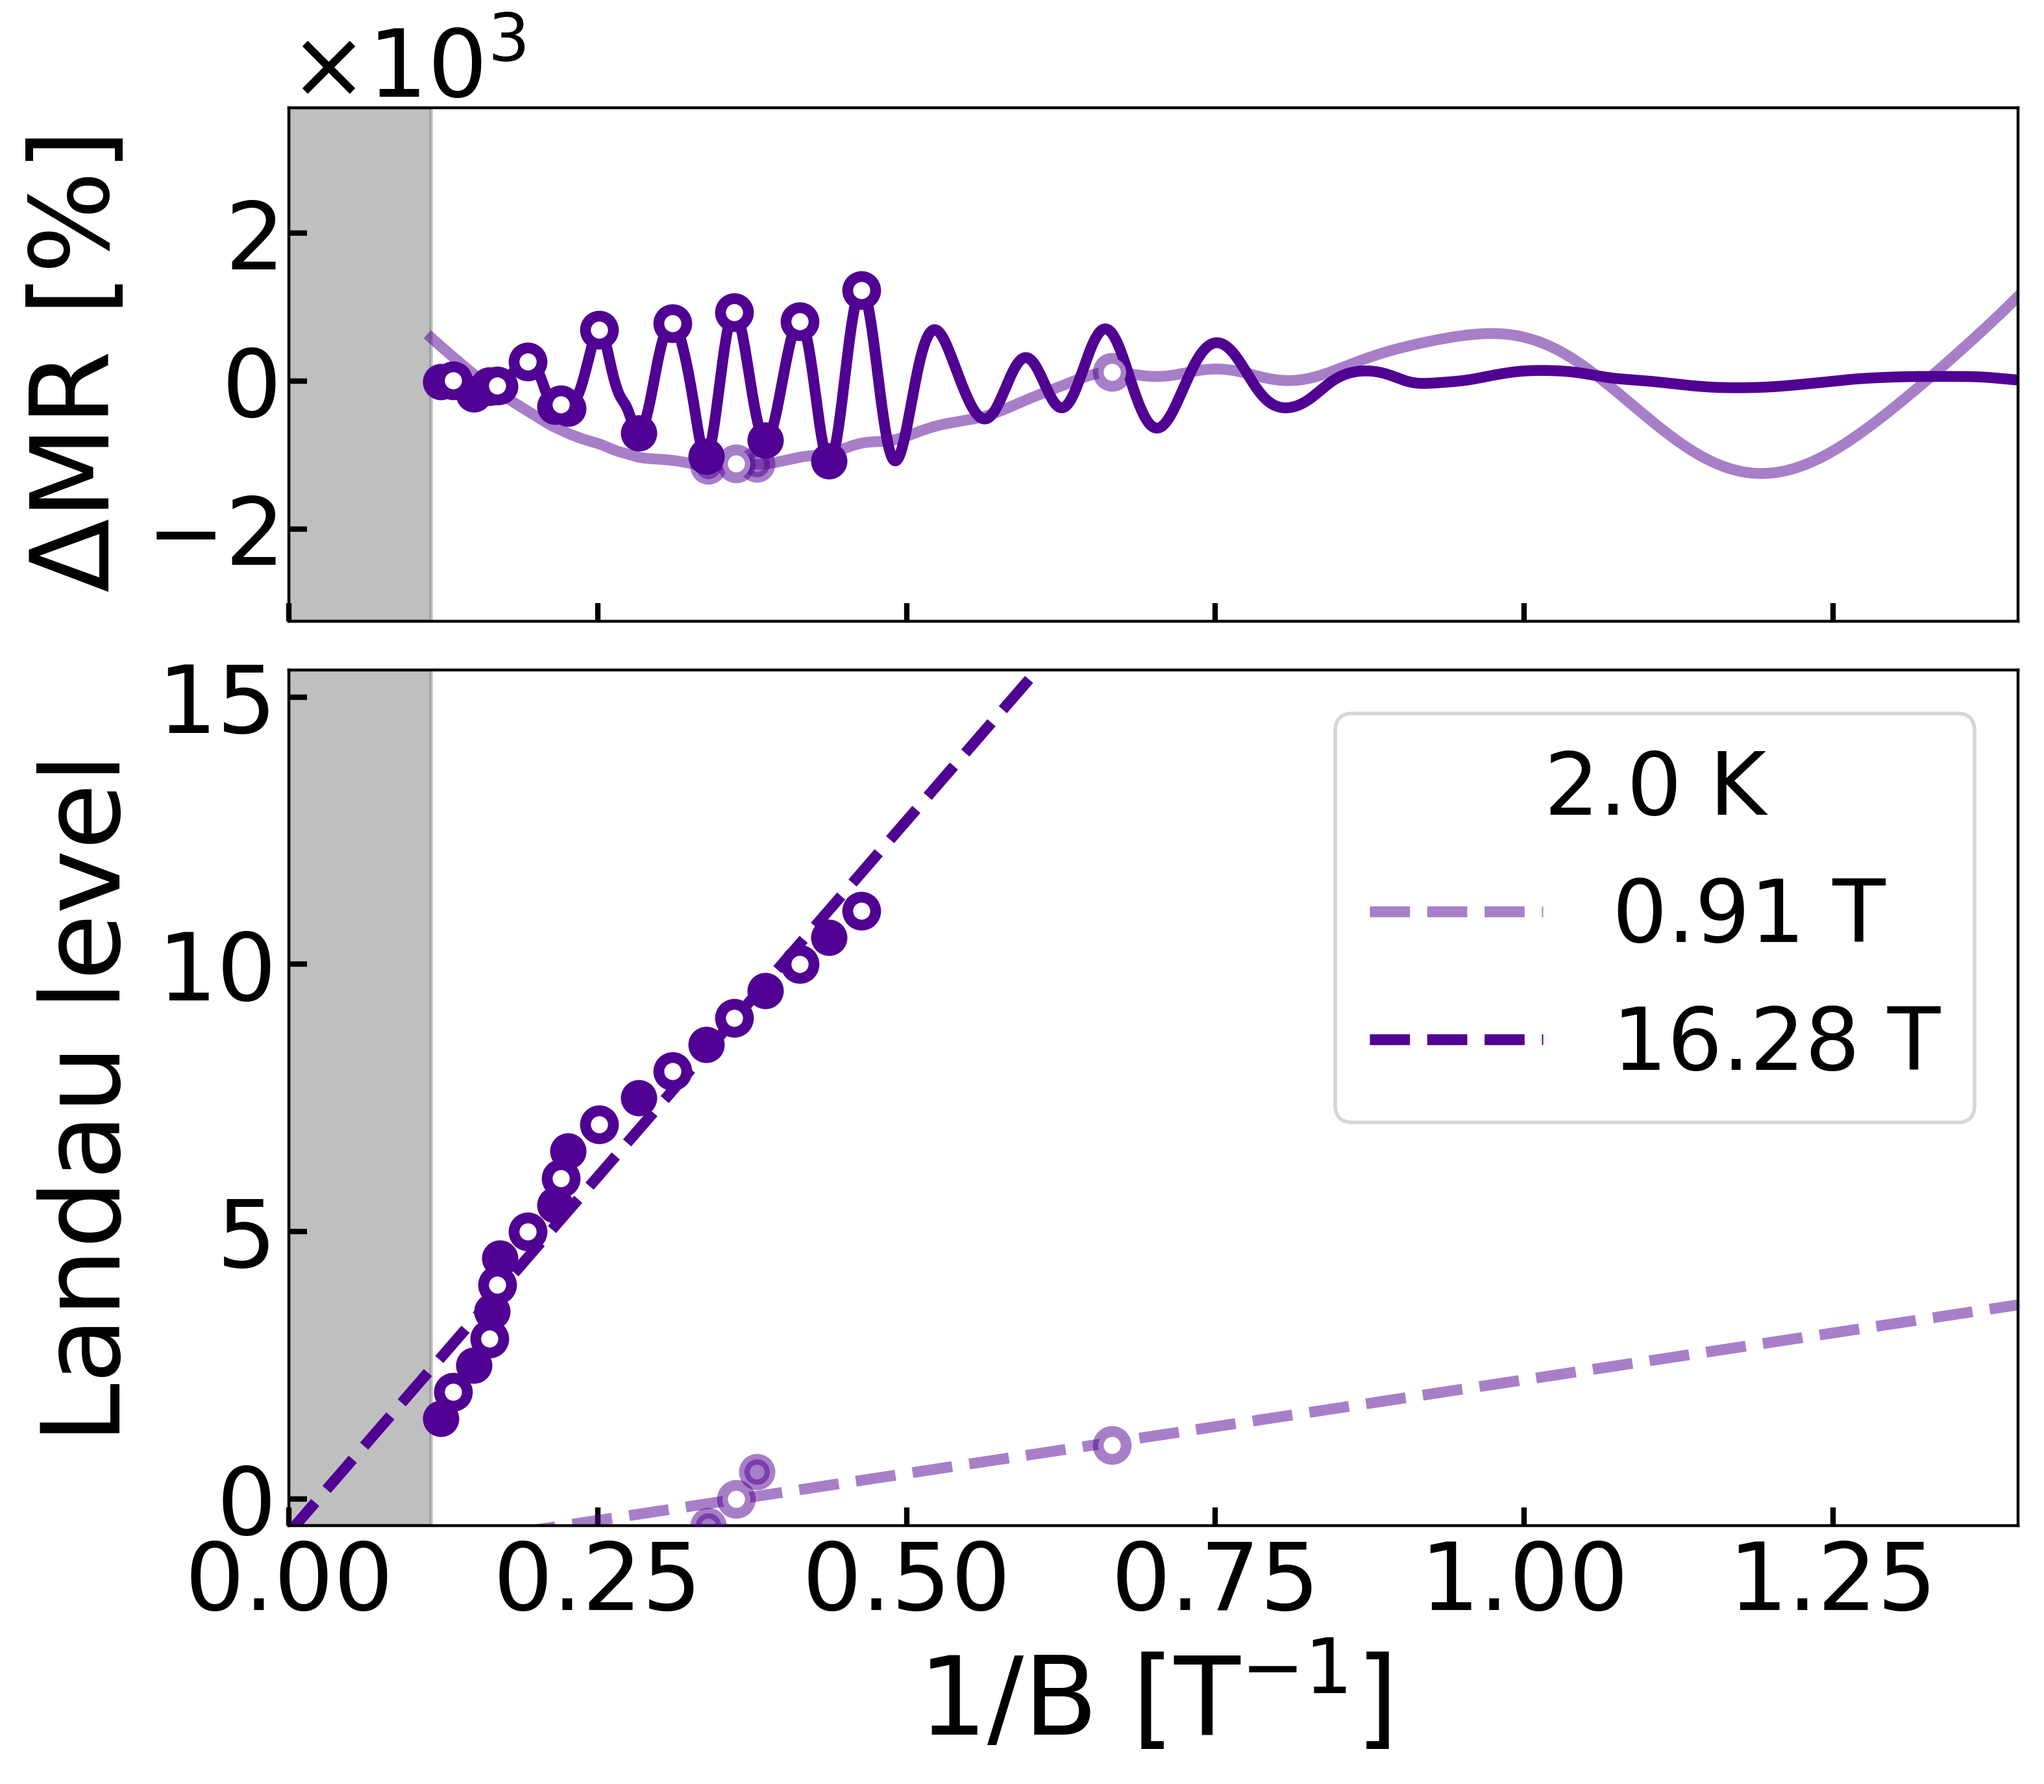
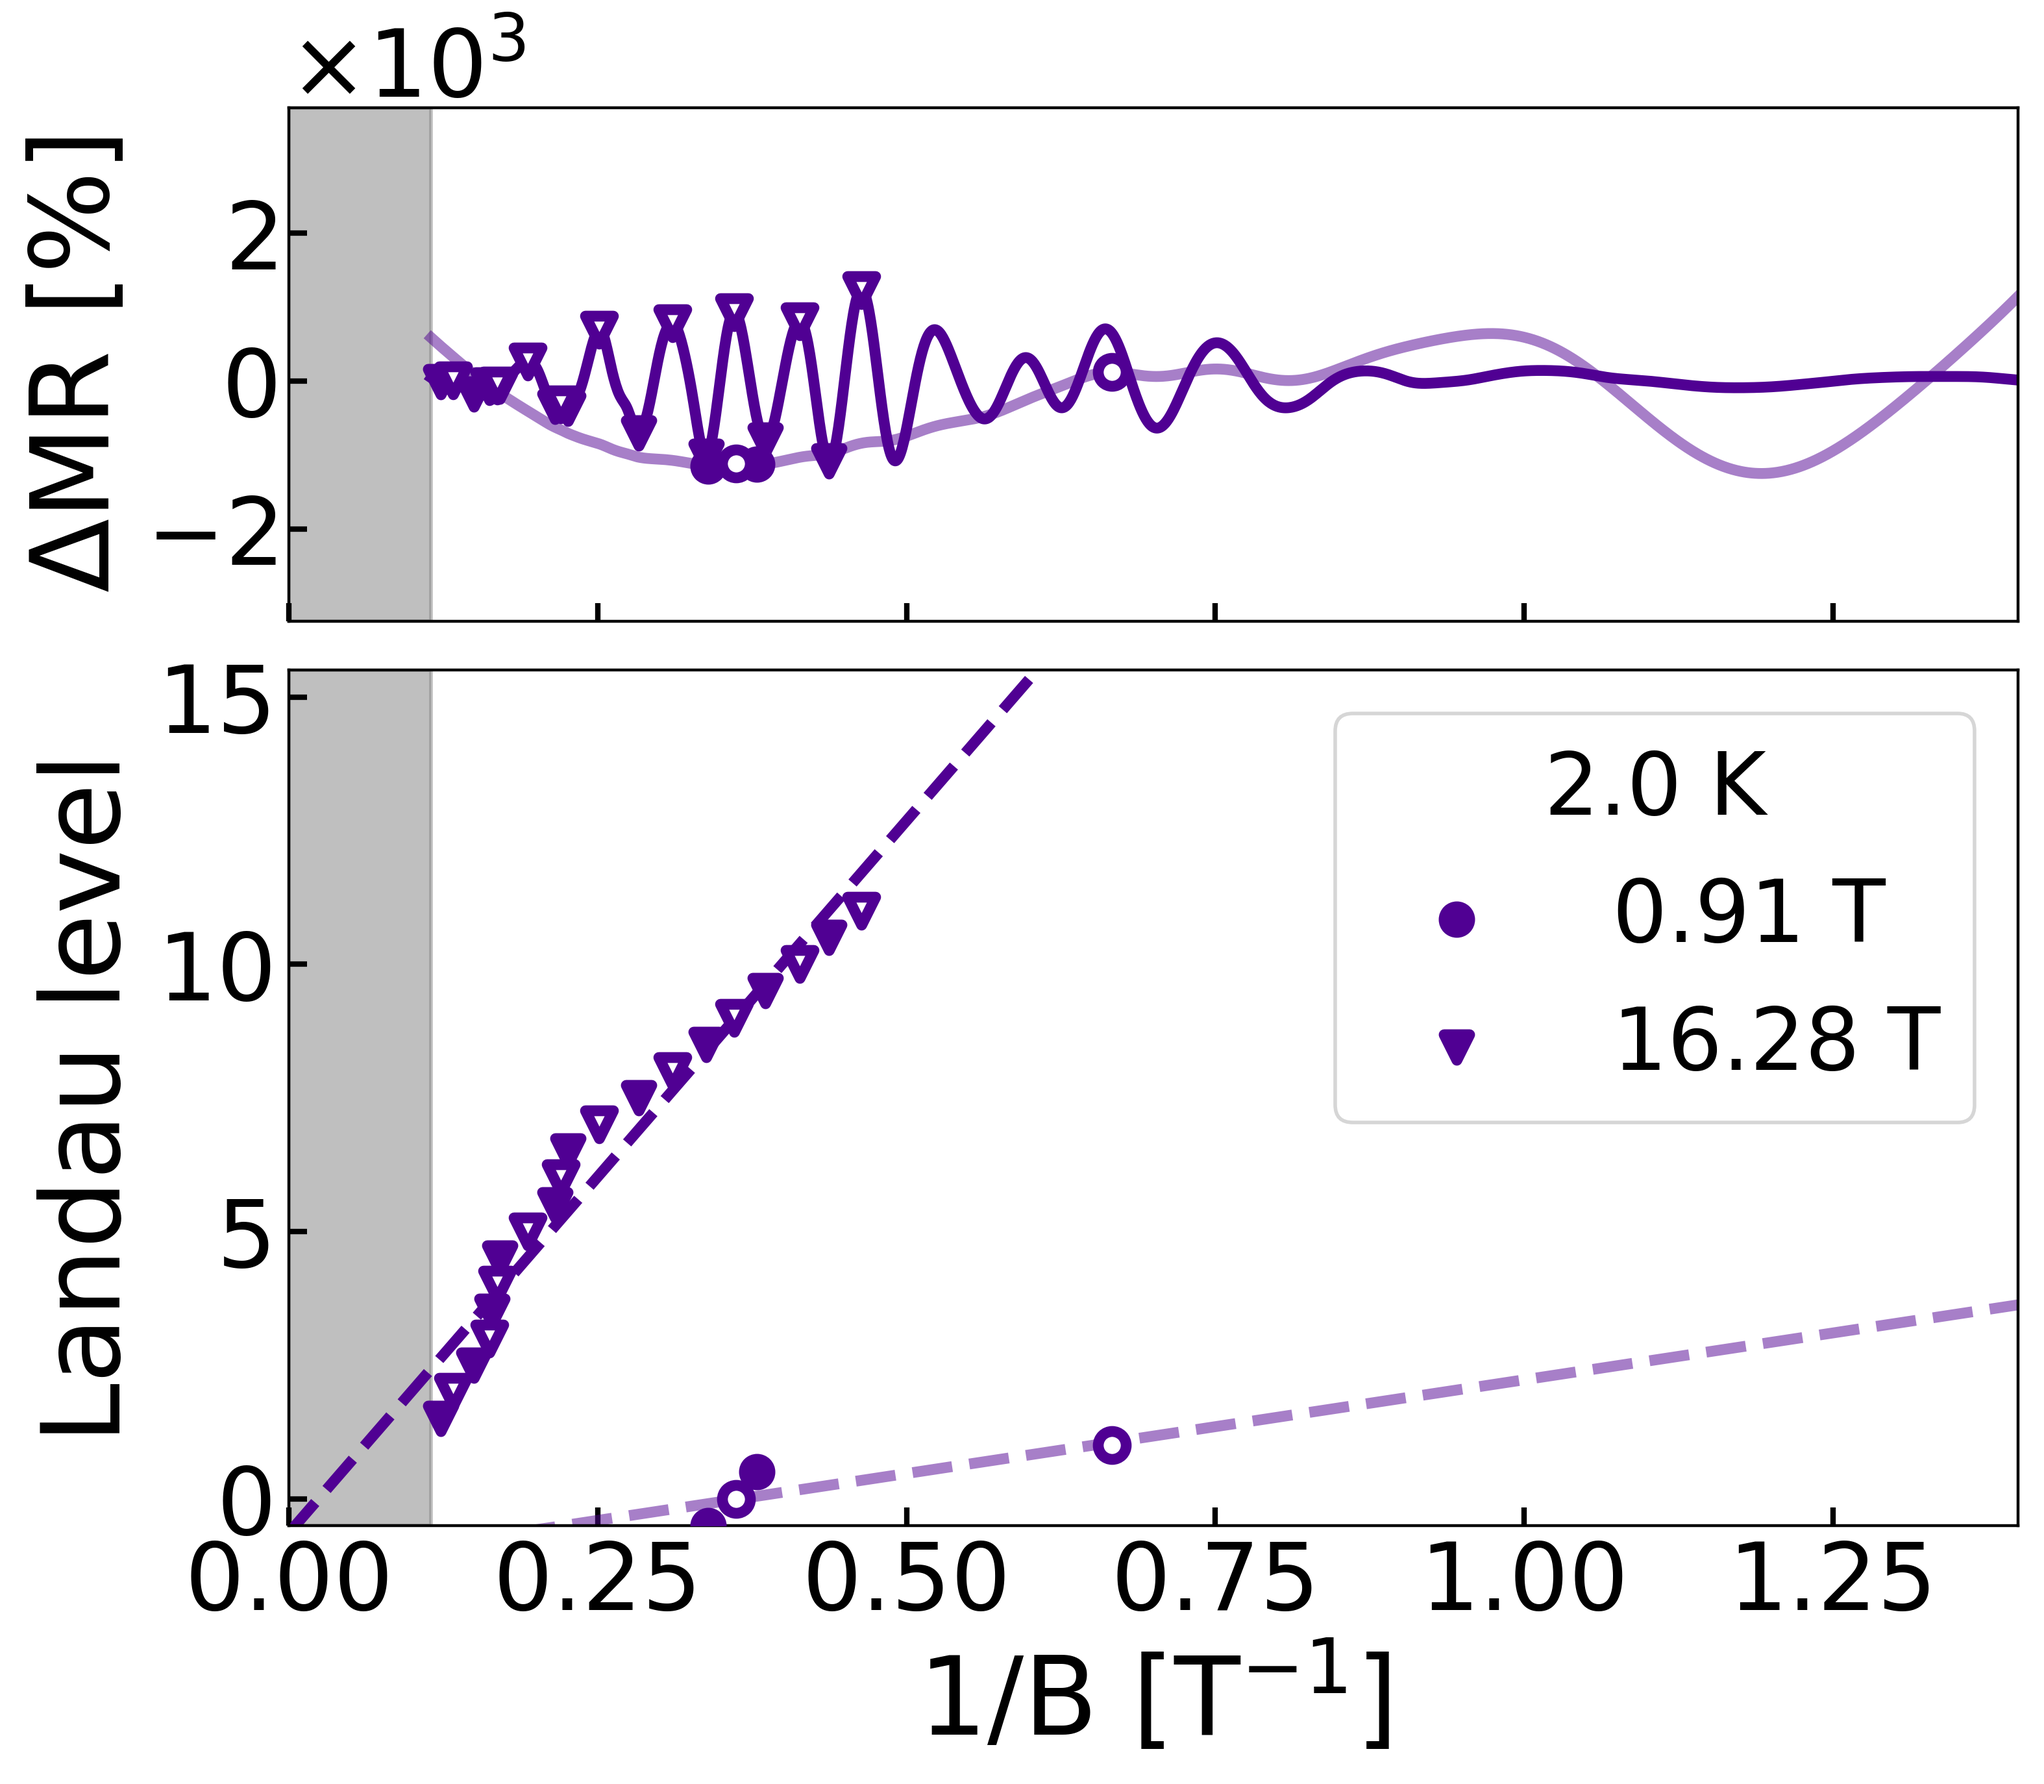
cleanup

diff --git a/03_Experimental/Landau/util/Landau.py b/03_Experimental/Landau/util/Landau.py
@@ -56,7 +56,8 @@ def FFT(Ts_sub, Hs_sub, MRs_sub, T_max, q_min, q_max, subbg, resu_dir, Ts):
         plt.close()
 
     f, ax = plt.subplots(2, 1, figsize = (8,7))
-    for T, MR in zip(Ts_sub, MRs_sub):
+    markers = ['-', '--', '-.']
+    for i, (T, MR) in enumerate(zip(Ts_sub, MRs_sub)):
         MR_iH = PchipInterpolator(*resolve_monotone(iHs_sub, MR), extrapolate = False)
         MR_iH = MR_iH(iH)
 
@@ -67,8 +68,8 @@ def FFT(Ts_sub, Hs_sub, MRs_sub, T_max, q_min, q_max, subbg, resu_dir, Ts):
         qs.append(q)
         MRs_iH_fft.append(MR_iH_fft)
 
-        ax[0].plot(iH, MR_iH, '-', color = colors[int(T)-2], linewidth = 3, label = f'{T} K')
-        ax[1].plot(q, np.abs(MR_iH_fft), '-', color = colors[int(T)-2], linewidth = 3, label = f'{T} K')
+        ax[0].plot(iH, MR_iH, markers[i], color = colors[int(T)-2], linewidth = 3, label = f'{T} K')
+        ax[1].plot(q, np.abs(MR_iH_fft), markers[i], color = colors[int(T)-2], linewidth = 3, label = f'{T} K')
         
     ax[0].tick_params(which = 'both', direction = 'in', top = False, right = False, length = 5, width = 1.5, labelsize = 26)
     ax[0].ticklabel_format(axis = 'y', style = 'sci', scilimits = (0, 0), useMathText=True)
@@ -159,6 +160,7 @@ def signal_filter(iHs, q, MR_iH_fft, qpeaks, y_widthes, T_max, resu_dir, T, subb
     base = 1000
     colors = mpl.colormaps['gnuplot'](np.log(np.linspace(base**(0.1), base**(0.9), int(np.max(Ts))))/np.log(base))
 
+    scmarkers = ['o', 'v', 's']
     f, ax = plt.subplots(2, 1, figsize = (8, 7), gridspec_kw = {'height_ratios':[3,5]}, sharex = True)
 
     ixplot_max = 1.4
@@ -191,12 +193,12 @@ def signal_filter(iHs, q, MR_iH_fft, qpeaks, y_widthes, T_max, resu_dir, T, subb
         color = np.concatenate([colors[int(T)-2][:3], np.array([(i + 1)/numb])])
 
         ax[0].plot(iHs, yfilter, linewidth = 3, color = color)
-        ax[0].scatter(iHs[mininds], yfilter[mininds], s = 50, facecolor = color, edgecolors = color, linewidth = 3, zorder = 3)
-        ax[0].scatter(iHs[maxinds], yfilter[maxinds], facecolor = 'w', edgecolors = color, s = 60, linewidth = 3, zorder = 3)
+        ax[0].scatter(iHs[mininds], yfilter[mininds], marker = scmarkers[i], s = 50, facecolor = colors[int(T)-2][:3], edgecolors = colors[int(T)-2][:3], linewidth = 3, zorder = 3)
+        ax[0].scatter(iHs[maxinds], yfilter[maxinds], marker = scmarkers[i], facecolor = 'w', edgecolors = colors[int(T)-2][:3], s = 60, linewidth = 3, zorder = 3)
 
-        ax[1].plot(ixn_plot, yplot, linestyle = '--', linewidth = 3, color = color, label = f'{round(qpeak, 2)} T')
-        ax[1].scatter(iHs[mininds], n_min, s = 50, facecolor = color, edgecolors = color, linewidth = 3, zorder = 3)
-        ax[1].scatter(iHs[maxinds], n_max, s = 60, facecolor = 'w', edgecolors = color, linewidth = 3, zorder = 3)
+        ax[1].plot(ixn_plot, yplot, linestyle = '--', linewidth = 3, color = color)
+        ax[1].scatter(iHs[mininds], n_min, marker = scmarkers[i], s = 50, facecolor = colors[int(T)-2][:3], edgecolors = colors[int(T)-2][:3], linewidth = 3, zorder = 3, label = f'{round(qpeak, 2)} T')
+        ax[1].scatter(iHs[maxinds], n_max, marker = scmarkers[i], s = 60, facecolor = 'w', edgecolors = colors[int(T)-2][:3], linewidth = 3, zorder = 3)
 
     ax[0].set_ylabel(r'$\mathrm{\mathsf{\Delta}}$MR [%]', fontsize = 30)
     ax[0].set_xlim([0, ixplot_max])

diff --git a/03_Experimental/Landau/analysis.py b/03_Experimental/Landau/analysis.py
@@ -8,25 +8,25 @@ from util.Kohler import plot_rho, plot_MR, plot_MRK, plot_MREK
 from util.back_ground import subbg_po, subbg_pp, subbg_de
 from util.Landau import FFT, FFT_peaks, signal_filter
 
-# MR_S2
-data_file = 'D:/python_project/H-TaP/03_Experimental/Landau/data/MR_S2_extracted.pkl'
-params_file = 'D:/python_project/H-TaP/03_Experimental/Landau/data/MR_S2_params.txt'
-resu_dir = 'D:/python_project/H-TaP/03_Experimental/Landau/results/MR_S2/'
-po_power = 7
-pieces = 2
-pp_power = 4
-avg_window = 10
-T_max = 12
-
-# # MR_S4
-# data_file = 'D:/python_project/H-TaP/03_Experimental/Landau/data/MR_S4_extracted.pkl'
-# params_file = 'D:/python_project/H-TaP/03_Experimental/Landau/data/MR_S4_params.txt'
-# resu_dir = 'D:/python_project/H-TaP/03_Experimental/Landau/results/MR_S4/'
-# po_power = 5
+# # MR_S2
+# data_file = 'D:/python_project/H-TaP/03_Experimental/Landau/data/MR_S2_extracted.pkl'
+# params_file = 'D:/python_project/H-TaP/03_Experimental/Landau/data/MR_S2_params.txt'
+# resu_dir = 'D:/python_project/H-TaP/03_Experimental/Landau/results/MR_S2/'
+# po_power = 7
 # pieces = 2
-# pp_power = 3
+# pp_power = 4
 # avg_window = 10
-# T_max = 22
+# T_max = 12
+
+# MR_S4
+data_file = 'D:/python_project/H-TaP/03_Experimental/Landau/data/MR_S4_extracted.pkl'
+params_file = 'D:/python_project/H-TaP/03_Experimental/Landau/data/MR_S4_params.txt'
+resu_dir = 'D:/python_project/H-TaP/03_Experimental/Landau/results/MR_S4/'
+po_power = 5
+pieces = 2
+pp_power = 3
+avg_window = 10
+T_max = 22
 
 # select background options
 po = True
@@ -72,7 +72,6 @@ colors = mpl.colormaps['gnuplot'](np.log(np.linspace(base**(0.1), base**(0.9), i
 f, ax = plt.subplots(1, 1, figsize = (8, 2.5))
 
 for subbg, (Ts_sub, Hs_sub, MRs_sub) in QO_data.items():
-    print(Ts_sub)
     iHs, MRs_iH, qs, MRs_iH_fft = FFT(Ts_sub, Hs_sub[Hs_sub > 0], MRs_sub[:, Hs_sub > 0], T_max, q_min, q_max, subbg, resu_dir, Ts)
     for T, q, MR_iH_fft, MR_iH in zip(Ts_sub, qs, MRs_iH_fft, MRs_iH):
         qpeaks, y_widthes = FFT_peaks(q, MR_iH_fft, r_min, r_max, T_max, resu_dir, T, subbg, Ts)
